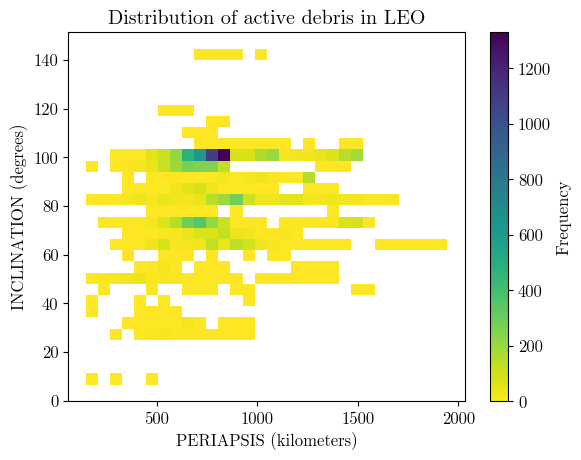
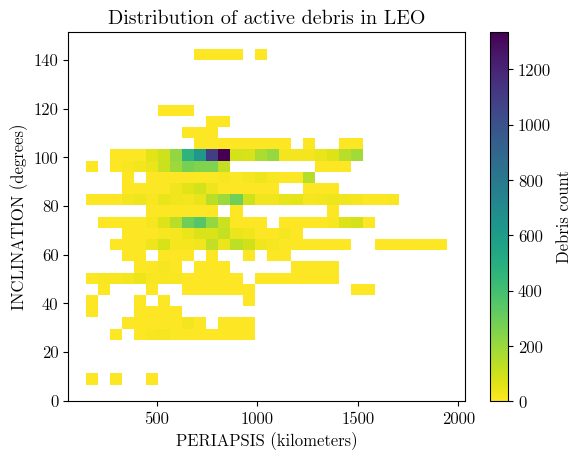
Update label, output, and external link
- Update label in 02_2023-12-27_debris.ipynb
- Update the output
- Update the link in external-links.md

diff --git a/external-links.md b/external-links.md
@@ -23,4 +23,4 @@ Each link is beside its corresponding file name for easier understanding, lookup
 
 - 02_2023-12-27_debris &ndash;
 [LinkedIn](),
-[Google Colab](https://colab.research.google.com/drive/184xCbnDtTD4_Wq5cjNhwrGKHwwYohBIw)
+[Google Colab](https://colab.research.google.com/drive/1PGVZXMCaL-Y2k2cFprz4I8R000rTtWb4)
